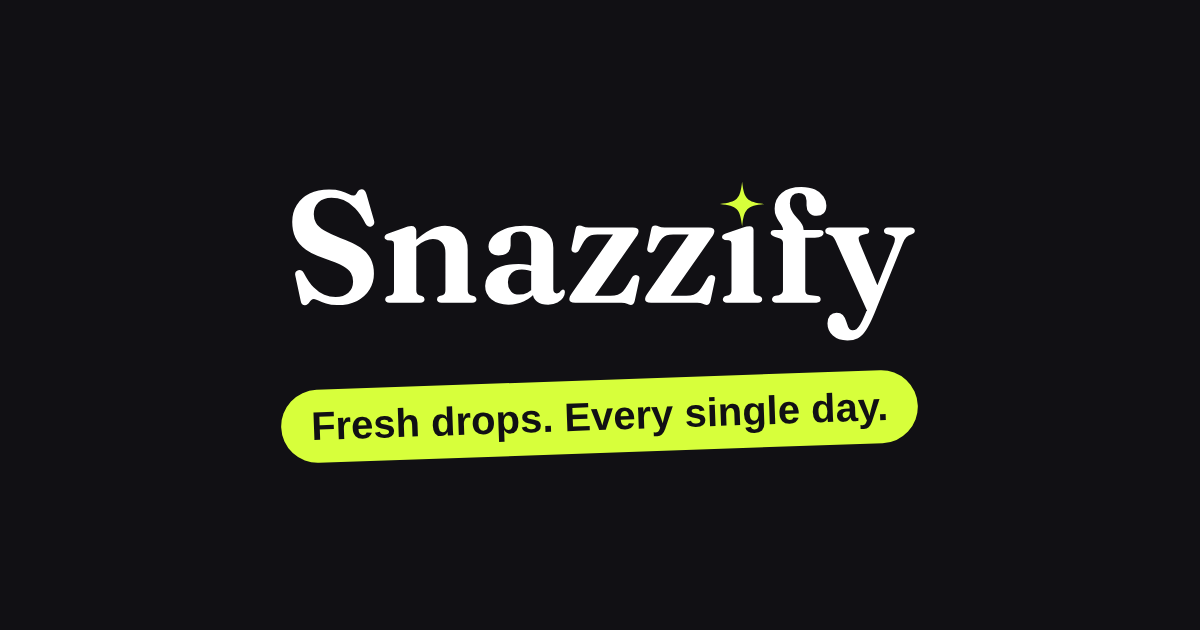
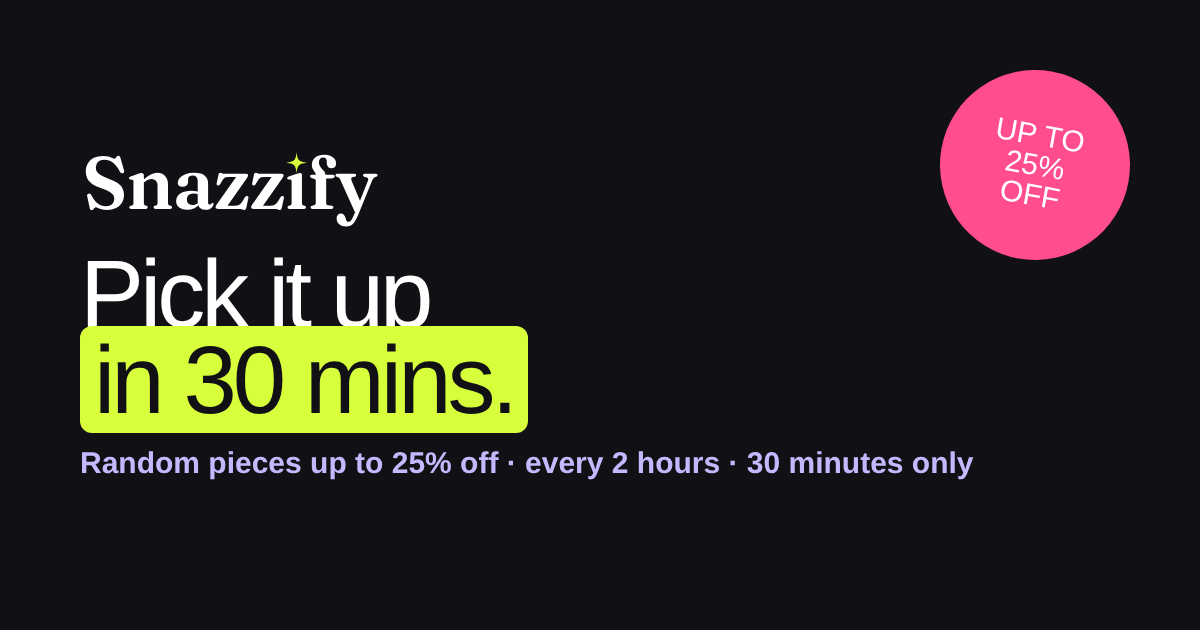
"Pick it up in 30 mins" flash drops
- Every N hours, random live products get a random 5-25% discount for 30 min (delivery never discounted)
- Picks made server-side from a secret seed; enforced at checkout with 5-min grace
- Live banner + countdown, home section (live grid / mystery teaser), card + product badges with slashed prices, FAQ, marquee, share image
- Admin: on/off switch, hours, gap, length, discount range, products per drop, live status

Claude-Session: https://claude.ai/code/session_01NkM9mXLAidQUMp4WEUHgsA

Changed region(s): [[0.0617, 0.2413, 0.8325, 0.754], [0.7708, 0.0905, 0.9558, 0.4222]]

diff --git a/public/index.html b/public/index.html
@@ -30,6 +30,30 @@ img{display:block;max-width:100%}
 .disp{font-family:var(--disp);letter-spacing:-.03em}
 
 /* marquee */
+.fbar{background:var(--lilac);color:var(--ink);text-align:center;font-size:13.5px;padding:9px 14px;font-weight:600}
+.fbar a{text-decoration:none;color:inherit}
+.fbar.live{background:var(--pink);color:#fff;animation:fpulse 1.6s ease-in-out infinite}
+@keyframes fpulse{50%{filter:brightness(1.12)}}
+.fbar .ft{font-variant-numeric:tabular-nums}
+@media(max-width:640px){.fbar .hs{display:none}.fbar{font-size:13px}}
+.tag.flash{background:var(--pink);color:#fff;font-variant-numeric:tabular-nums}
+.pr s,.bigpr s{font-size:.6em;color:var(--muted);margin-left:6px;font-weight:600}
+.flash{border-radius:28px;padding:30px;background:var(--lilac);position:relative;overflow:hidden}
+.flash.live{background:var(--ink);color:#fff}
+.flash .fh{display:flex;justify-content:space-between;align-items:flex-end;gap:20px;flex-wrap:wrap;margin-bottom:20px}
+.flash .fk{font-size:12px;font-weight:800;letter-spacing:.1em;color:var(--pink);margin-bottom:10px}
+.flash.live .fk{color:var(--lime)}
+.flash h2{font-family:var(--disp);font-weight:800;font-size:clamp(40px,7vw,80px);letter-spacing:-.05em;line-height:.88}
+.flash p{max-width:460px;margin-top:12px;font-size:15.5px;line-height:1.5}
+.fclock{background:var(--ink);color:#fff;border-radius:20px;padding:14px 20px;text-align:center}
+.flash.live .fclock{background:var(--pink)}
+.fclock small{font-size:11px;font-weight:800;letter-spacing:.12em;opacity:.7}
+.fclock b{display:block;font-family:var(--disp);font-size:44px;letter-spacing:-.03em;font-variant-numeric:tabular-nums}
+.flash.live .card{color:var(--ink)}
+.mys{display:grid;grid-template-columns:repeat(3,1fr);gap:12px}
+.mc{aspect-ratio:4/5;border-radius:18px;background:repeating-linear-gradient(45deg,#fff 0 14px,#f3efff 14px 28px);display:grid;place-items:center;align-content:center;gap:8px;border:2px dashed var(--ink)}
+.mc span{font-family:var(--disp);font-weight:800;font-size:64px;line-height:1}
+.mc em{font-style:normal;font-weight:800;font-size:13px;background:var(--pink);color:#fff;border-radius:999px;padding:4px 10px}
 .mq{background:var(--ink);color:#fff;overflow:hidden;white-space:nowrap;font-size:13px;font-weight:600}
 .mq .track{display:inline-flex;animation:mq 30s linear infinite;padding:9px 0}
 .mq span{padding:0 22px;display:inline-flex;align-items:center;gap:22px}
@@ -355,6 +379,7 @@ select{font:inherit;font-weight:600;font-size:14px;border:1.5px solid var(--line
 <body>
 
 <div class="mq"><div class="track" id="mq"></div></div>
+<div id="fbar" class="fbar" style="display:none"></div>
 
 <header>
   <div class="wrap hb">
@@ -408,7 +433,11 @@ const WHATSAPP_NUMBER = '';           // your number, digits only, e.g. '9198765
 const LIFE_DAYS = 7;                  // each product stays live this long
 const DROP_HOUR_IST = 11;             // daily drop time (11:00 AM IST)
 const IMG = p => '/img/' + p.img;     // product photos live in /img
-let PRODUCTS = [], SETTINGS = { seeBeforePay: false };                     // loaded from /products.json
+let PRODUCTS = [], SETTINGS = { seeBeforePay: false }, FLASH = { on:false }, CLOCK_SKEW = 0;
+const deal = p => FLASH.live && FLASH.deals && FLASH.deals[p.id];
+const ep = p => { const d = deal(p); return d ? d.price : p.price; };   // effective price right now
+const fmtT = ms => { ms = Math.max(0, ms); const h=Math.floor(ms/H), m=Math.floor(ms%H/6e4), s=Math.floor(ms%6e4/1e3); return (h?String(h).padStart(2,'0')+':':'')+String(m).padStart(2,'0')+':'+String(s).padStart(2,'0'); };
+const nowS = () => Date.now() + CLOCK_SKEW;                     // loaded from /products.json
 
 /* ================= STATE ================= */
 const H = 3600e3, LIFE = LIFE_DAYS*24*H, NOW = Date.now();
@@ -437,13 +466,14 @@ function addToBag(id,size,colour){ const p=byId(id); size = size || p.sizes?.[0]
 
 function card(p){
   const used = Math.min(1,(Date.now()-p.addedAt)/LIFE);
-  const tag = isNew(p) ? '<span class="tag new">Just dropped</span>' : ending(p) ? `<span class="tag end">${left(p)}</span>` : '';
+  const d = deal(p);
+  const tag = d ? `<span class="tag flash">⚡ ${d.pct}% OFF · <b class="ft" data-to="${FLASH.endsAt}">--:--</b></span>` : isNew(p) ? '<span class="tag new">Just dropped</span>' : ending(p) ? `<span class="tag end">${left(p)}</span>` : '';
   return `<article class="card">
     <div class="im" data-open="${p.id}"><img src="${IMG(p)}" alt="${p.name}">${tag}
       <div class="life" title="Time left in the shop"><i style="width:${(1-used)*100}%"></i></div></div>
     <button class="heart ${saved.includes(p.id)?'on':''}" data-id="${p.id}" aria-label="Save">${heartSvg}</button>
     <div class="mt"><div class="cat">${p.cat}</div><div class="nm" data-open="${p.id}">${p.name}</div>
-      <div class="prow"><div><div class="pr">${rupee(p.price)}</div><div class="left">${isNew(p)?'New today':left(p)}</div></div>
+      <div class="prow"><div><div class="pr">${rupee(ep(p))}${deal(p)?`<s>${rupee(p.price)}</s>`:''}</div><div class="left">${isNew(p)?'New today':left(p)}</div></div>
       <button class="add" data-add="${p.id}" aria-label="Add to bag">+</button></div></div>
   </article>`;
 }
@@ -482,7 +512,7 @@ home(){
       <h1>Fresh drops.<br><span class="hl">Every.</span> <span class="st">Single.</span><br>Day.</h1>
       <p class="lead">Handpicked sarees, sets, bags and festive finds land here every morning. Each piece stays for 7 days, then it's gone for good. Blink and you'll miss it.</p>
       <div class="ctas"><a class="btn dark" href="#shop">Shop today's drop →</a><a class="btn ghost" href="#about">How it works</a></div>
-      <div class="dropclock"><span class="lbl">Next drop in</span>
+      <div class="dropclock"><span class="lbl">${FLASH.on?(FLASH.live?'⚡ 30-min deals end in':'⚡ Next 30-min deals in'):'Next drop in'}</span>
         <div class="tbox"><b id="dH">00</b><small>hrs</small></div><div class="tbox"><b id="dM">00</b><small>min</small></div><div class="tbox"><b id="dS">00</b><small>sec</small></div></div>
     </div>
     ${hi.length>=3?`<div class="collage">
@@ -495,13 +525,14 @@ home(){
     </div>`:''}
   </section>
 
+  ${flashSection()}
   <section class="wrap sec">
     <div class="sh"><h2>Not your usual<br>online store<em>.</em></h2><p>Here's what makes shopping at Snazzify different.</p></div>
     <div class="bento">
       <div class="bx k big"><div><div class="ico">⏳</div></div>
         <div><h3>Every piece has<br>a 7-day life.</h3><p style="margin-top:10px">The bar on each photo is its clock. When it runs out, the piece leaves the shop and something new takes its place. No endless scrolling through old stock.</p>
         <div class="daydots">${['Mon','Tue','Wed','Thu','Fri','Sat','Sun'].map((d,i)=>`<span class="${i<5?'on':''}">${d}</span>`).join('')}</div></div></div>
-      <div class="bx l"><div class="ico">⚡</div><div><h3>Daily drops</h3><p>New pieces every day at ${DROP_HOUR_IST} AM.</p></div></div>
+      <div class="bx l"><div class="ico">⚡</div><div><h3>Pick it up in 30 mins</h3><p>Random pieces drop up to 25% off, every 2 hours, for 30 minutes.</p></div></div>
       <div class="bx v"><div class="ico">🔒</div><div><h3>Prepaid & secure</h3><p>UPI, cards & netbanking via Razorpay.</p></div></div>
       <div class="bx w"><div class="ico">🚚</div><div><h3>Free shipping</h3><p>On every order, anywhere in India.</p></div></div>
       <div class="bx p"><div class="ico">💬</div><div><h3>Drop alerts</h3><p>Get new pieces on WhatsApp first.</p></div></div>
@@ -542,6 +573,7 @@ home(){
   <section class="wrap sec" id="faq">
     <div class="sh"><h2>Questions<em>?</em></h2></div>
     <div class="faq">
+      <details><summary>What is "Pick it up in 30 mins"?</summary><p>Every 2 hours, a few random pieces in the shop drop by 5–25% for just 30 minutes. Nobody knows which pieces or how much until the drop starts, and the countdown at the top of the page shows when the next one begins. Only the price of the piece drops; delivery charges stay the same. If it's in your bag when the timer ends, you have a few extra minutes to check out.</p></details>
       <details><summary>Why do products disappear after 7 days?</summary><p>We work with makers who release new designs every day. Keeping each piece for one week keeps the shop fresh and the prices sharp. If you love something, don't wait.</p></details>
       <details><summary>Do you offer Cash on Delivery?</summary><p>No, all orders are prepaid. You can pay by UPI (GPay, PhonePe, Paytm), debit or credit card, or netbanking, all secured by Razorpay. That's what lets us keep prices low and shipping free.</p></details>
       <details><summary>How long does delivery take?</summary><p>Orders ship in 3–5 days after payment, and we send tracking on WhatsApp. Delivery usually takes 3–7 days depending on your pincode.</p></details>
@@ -554,7 +586,7 @@ home(){
 shop(){
   let list = live.filter(p => shopCat==='All' || (shopCat==='New today' ? isNew(p) : shopCat==='Saved' ? saved.includes(p.id) : p.cat===shopCat));
   if(query) list = list.filter(p => (p.name+' '+p.cat+' '+p.details.join(' ')).toLowerCase().includes(query));
-  list.sort(shopSort==='new' ? (a,b)=>b.addedAt-a.addedAt : shopSort==='end' ? (a,b)=>a.expiresAt-b.expiresAt : shopSort==='lo' ? (a,b)=>a.price-b.price : (a,b)=>b.price-a.price);
+  list.sort(shopSort==='new' ? (a,b)=>b.addedAt-a.addedAt : shopSort==='end' ? (a,b)=>a.expiresAt-b.expiresAt : shopSort==='lo' ? (a,b)=>ep(a)-ep(b) : (a,b)=>ep(b)-ep(a));
   const n = c => c==='All'?live.length : c==='New today'?live.filter(isNew).length : live.filter(p=>p.cat===c).length;
   return `<section class="wrap sec" style="padding-top:36px">
     <div class="sh"><h2>${query?`Results for “${query}”`:shopCat==='All'?'Everything live<em>.</em>':shopCat+'<em>.</em>'}</h2><p>${list.length} piece${list.length===1?'':'s'} · each one gone in 7 days</p></div>
@@ -657,7 +689,7 @@ function route(){
     $('#sort').onchange=e=>{shopSort=e.target.value;route();};
   }
   if(name==='home'){
-    clearInterval(tick); const run=()=>{ const ms=nextDrop()-Date.now(); if(!$('#dH')) return clearInterval(tick);
+    clearInterval(tick); const run=()=>{ const ms=(FLASH.on?(FLASH.live?FLASH.endsAt:FLASH.nextAt):nextDrop())-nowS(); if(!$('#dH')) return clearInterval(tick);
       $('#dH').textContent=String(Math.floor(ms/H)).padStart(2,'0'); $('#dM').textContent=String(Math.floor(ms%H/6e4)).padStart(2,'0'); $('#dS').textContent=String(Math.floor(ms%6e4/1e3)).padStart(2,'0'); };
     run(); tick=setInterval(run,1000);
     $('#alertF').onsubmit=e=>{ e.preventDefault(); const n=$('#alertN').value.trim();
@@ -689,12 +721,13 @@ function openProduct(id){
         <button class="x" id="x" aria-label="Close">×</button>
         <div class="code">${p.cat.toUpperCase()} · ${p.code}</div>
         <h3>${p.name}</h3>
-        <div class="bigpr">${rupee(p.price)}<span class="free">Free shipping</span></div>
+        <div class="bigpr">${rupee(ep(p))}${deal(p)?`<s>${rupee(p.price)}</s><span class="free" style="background:var(--pink);color:#fff">⚡ ${deal(p).pct}% OFF</span>`:''}<span class="free">Free shipping</span></div>
+        ${deal(p)?`<div class="count" style="background:var(--pink)">⚡ Pick it up in 30 mins: this price ends in <b class="ft" data-to="${FLASH.endsAt}">--:--</b></div>`:''}
         <div class="count">⏳ Leaves the shop in <b id="cd"></b></div>
         ${p.sizes?`<div><div class="lbl">Size</div><div class="opts">${p.sizes.map(s=>`<button class="opt ${s===size?'on':''}" data-s="${s}">${s}</button>`).join('')}</div></div>`:''}
         ${p.colours?`<div><div class="lbl">Colour · ${colour}</div><div class="opts">${p.colours.map(s=>`<button class="opt ${s===colour?'on':''}" data-k="${s}">${s}</button>`).join('')}</div></div>`:''}
         <ul class="desc">${p.details.map(d=>`<li>${d}</li>`).join('')}</ul>
-        <div class="brow"><button class="buy" id="bNow">Buy now · ${rupee(p.price)}</button><button class="sq ${saved.includes(p.id)?'on':''}" data-id="${p.id}" id="sv" aria-label="Save">${heartSvg}</button></div>
+        <div class="brow"><button class="buy" id="bNow">Buy now · ${rupee(ep(p))}</button><button class="sq ${saved.includes(p.id)?'on':''}" data-id="${p.id}" id="sv" aria-label="Save">${heartSvg}</button></div>
         <button class="buy alt" id="bAdd">Add to bag</button>
         <div class="trust"><span>🔒 Razorpay secure</span><span>UPI</span><span>Cards</span><span>Netbanking</span><span>No COD</span></div>
         ${SETTINGS.seeBeforePay?'<div class="note" style="color:var(--ink);font-weight:600">✨ Not sure? Choose <b>See it before you pay</b> at checkout: we send you a video first.</div>':''}
@@ -718,13 +751,13 @@ function openProduct(id){
 /* ================= BAG / SAVED DRAWER ================= */
 function openBag(tab='bag', toCheckout=false){
   const d = $('#drawer');
-  const total = () => bag.reduce((a,i)=>a+byId(i.id).price*i.qty,0);
+  const total = () => bag.reduce((a,i)=>a+ep(byId(i.id))*i.qty,0);
   const draw = () => {
     const items = tab==='bag'
       ? (bag.length ? bag.map(i=>{const p=byId(i.id);return `<div class="li"><img src="${IMG(p)}" alt=""><div><b>${p.name}</b><small>${[i.size,i.colour].filter(Boolean).join(' · ')||p.code} · ${left(p)}</small>
-          <div class="qty"><button data-q="${i.k}" data-d="-1">−</button>${i.qty}<button data-q="${i.k}" data-d="1">+</button> <button class="rm" data-rm="${i.k}">Remove</button></div></div><div class="pr">${rupee(p.price*i.qty)}</div></div>`}).join('')
+          <div class="qty"><button data-q="${i.k}" data-d="-1">−</button>${i.qty}<button data-q="${i.k}" data-d="1">+</button> <button class="rm" data-rm="${i.k}">Remove</button></div></div><div class="pr">${rupee(ep(p)*i.qty)}</div></div>`}).join('')
         : '<div class="empty">Your bag is empty.<br><br><a class="btn dark" href="#home" id="goShop">Catch today\'s drop →</a></div>')
-      : (saved.length ? saved.map(id=>{const p=byId(id);return `<div class="li"><img src="${IMG(p)}" alt=""><div><b>${p.name}</b><small>${left(p)}</small><div class="qty"><button class="rm" data-mv="${id}">Move to bag</button> <button class="rm" data-un="${id}">Remove</button></div></div><div class="pr">${rupee(p.price)}</div></div>`}).join('')
+      : (saved.length ? saved.map(id=>{const p=byId(id);return `<div class="li"><img src="${IMG(p)}" alt=""><div><b>${p.name}</b><small>${left(p)}</small><div class="qty"><button class="rm" data-mv="${id}">Move to bag</button> <button class="rm" data-un="${id}">Remove</button></div></div><div class="pr">${rupee(ep(p))}</div></div>`}).join('')
         : '<div class="empty">Tap ♥ on anything you love. It stays here until it leaves the shop.</div>');
     d.innerHTML = `<div class="dh"><div class="tabs"><button class="tab ${tab==='bag'?'on':''}" data-t="bag">Bag (${bag.reduce((a,i)=>a+i.qty,0)})</button><button class="tab ${tab==='saved'?'on':''}" data-t="saved">Saved (${saved.length})</button></div><button class="dx" id="dx" aria-label="Close">×</button></div>
       <div class="db">${items}</div>
@@ -748,7 +781,7 @@ function openBag(tab='bag', toCheckout=false){
         <label>Address<textarea name="addr" required rows="2" autocomplete="street-address" placeholder="House no., street, area, landmark"></textarea></label>
         <div class="f3"><label>Pincode<input name="pin" required inputmode="numeric" maxlength="6" pattern="[1-9][0-9]{5}" autocomplete="postal-code"></label>
           <label>City<input name="city" required autocomplete="address-level2"></label><label>State<input name="state" required autocomplete="address-level1"></label></div>
-        <div class="tot" style="border-top:1px dashed var(--line);padding-top:12px">${bag.map(i=>{const p=byId(i.id);return `<span>${p.name}${i.qty>1?' × '+i.qty:''}</span><span>${rupee(p.price*i.qty)}</span>`}).join('')}<span>Shipping</span><span>Free</span><b>To pay</b><b>${rupee(total())}</b></div>
+        <div class="tot" style="border-top:1px dashed var(--line);padding-top:12px">${bag.map(i=>{const p=byId(i.id);return `<span>${p.name}${i.qty>1?' × '+i.qty:''}</span><span>${rupee(ep(p)*i.qty)}</span>`}).join('')}<span>Shipping</span><span>Free</span><b>To pay</b><b>${rupee(total())}</b></div>
         ${SETTINGS.seeBeforePay?`<div class="pm">
           <label class="pmo on"><input type="radio" name="pm" value="pay" checked><div><b>Pay now</b><span>Fastest dispatch. UPI, cards & netbanking.</span></div></label>
           <label class="pmo"><input type="radio" name="pm" value="see"><div><b>See it before you pay ✨</b><span>Book free. We WhatsApp you a video of your exact piece, and you pay only if you love it.</span></div></label></div>`:''}
@@ -836,15 +869,53 @@ $('#q').oninput = e => { query = e.target.value.trim().toLowerCase(); shopCat='A
 $$('footer [data-cat]').forEach(a=>a.onclick=()=>{shopCat=a.dataset.cat;query='';});
 $$('footer [data-faq]').forEach(a=>a.onclick=e=>{ if(location.hash==='#home'||!location.hash){ e.preventDefault(); $('#faq').scrollIntoView({behavior:'smooth'}); } else { setTimeout(()=>$('#faq')?.scrollIntoView(),50); } });
 $$('.waL').forEach(a=>a.href=wa('Hi Snazzify!'));
+/* ================= PICK IT UP IN 30 MINS ================= */
+let flashTimer;
+async function loadFlash(){
+  try { FLASH = await fetch('/api/flash', {cache:'no-store'}).then(r => r.json()); CLOCK_SKEW = (FLASH.now || Date.now()) - Date.now(); } catch(e) { FLASH = { on:false }; }
+  clearTimeout(flashTimer);
+  const at = FLASH.live ? FLASH.endsAt : FLASH.nextAt;
+  if (FLASH.on && at) flashTimer = setTimeout(async () => { await loadFlash(); routing.keep = true; route(); counts(); if (FLASH.live) toast('<i>⚡</i> Pick it up in 30 mins is LIVE!'); }, Math.max(1000, at - nowS() + 1500));
+  drawFlashBar();
+}
+function drawFlashBar(){
+  const el = $('#fbar'); if (!el) return;
+  if (!FLASH.on) { el.style.display='none'; return; }
+  el.style.display='';
+  el.className = 'fbar' + (FLASH.live ? ' live' : '');
+  const n = FLASH.live ? Object.keys(FLASH.deals||{}).length : 0;
+  el.innerHTML = FLASH.live
+    ? `<a href="#home" data-flash>⚡ <b>PICK IT UP IN 30 MINS</b> <span class="hs">· ${n} piece${n===1?'':'s'} up to ${Math.max(...Object.values(FLASH.deals).map(d=>d.pct))}% off</span> · ends in <b class="ft" data-to="${FLASH.endsAt}">--:--</b> →</a>`
+    : `<span>⚡ Next <b>Pick it up in 30 mins</b> drop in <b class="ft" data-to="${FLASH.nextAt}">--:--</b><span class="hs"> · up to ${FLASH.maxPct}% off for 30 mins only</span></span>`;
+  const a = el.querySelector('[data-flash]'); if (a) a.onclick = e => { if (location.hash==='#home'||!location.hash){ e.preventDefault(); $('#flash')?.scrollIntoView({behavior:'smooth'}); } else setTimeout(()=>$('#flash')?.scrollIntoView({behavior:'smooth'}),80); };
+}
+setInterval(() => { $$('.ft').forEach(e => e.textContent = fmtT(+e.dataset.to - nowS())); }, 1000);
+function flashSection(){
+  if (!FLASH.on) return '';
+  const deals = FLASH.live ? live.filter(p => deal(p)) : [];
+  if (FLASH.live && deals.length) return `<section class="wrap sec" id="flash"><div class="flash live">
+    <div class="fh"><div><div class="fk">⚡ LIVE NOW</div><h2>Pick it up<br>in 30 mins.</h2><p>Grab these prices before the clock hits zero. Delivery charges stay the same, only the price drops.</p></div>
+    <div class="fclock"><small>ENDS IN</small><b class="ft" data-to="${FLASH.endsAt}">--:--</b></div></div>
+    <div class="grid">${deals.map(card).join('')}</div></div></section>`;
+  return `<section class="wrap sec" id="flash"><div class="flash">
+    <div class="fh"><div><div class="fk">⚡ NEW: A WAY TO SHOP NOBODY ELSE HAS</div><h2>Pick it up<br>in 30 mins.</h2>
+      <p>Every ${FLASH.every/60} hours, random pieces drop by <b>${FLASH.minPct}–${FLASH.maxPct}%</b>, for just 30 minutes. Nobody knows which ones until the clock starts. Be here, be quick.</p></div>
+    <div class="fclock"><small>NEXT DROP IN</small><b class="ft" data-to="${FLASH.nextAt}">--:--</b></div></div>
+    <div class="mys">${[1,2,3].map(i=>`<div class="mc"><span>?</span><em>up to ${FLASH.maxPct}% off</em></div>`).join('')}</div>
+    <div class="ctas" style="margin-top:18px"><a class="btn lime" href="${wa('Hi Snazzify! ⚡ Add me to Pick it up in 30 mins alerts')}" target="_blank" rel="noopener">🔔 Alert me on WhatsApp</a></div>
+  </div></section>`;
+}
+
 (async function init(){
   try { PRODUCTS = await fetch('/api/products', {cache:'no-store'}).then(r => r.json()); } catch(e) { PRODUCTS = []; }
   try { SETTINGS = await fetch('/api/settings', {cache:'no-store'}).then(r => r.json()); } catch(e) {}
+  await loadFlash();
   PRODUCTS.forEach(p => { p.addedAt = Date.parse(p.addedAt); p.expiresAt = p.addedAt + LIFE; });
   const showHidden = /[?&]test\b/.test(location.search);
   live = PRODUCTS.filter(p => p.expiresAt > NOW && p.addedAt <= NOW && (!p.hidden || showHidden));
   saved = store.get('saved', []).filter(byId);
   bag = store.get('bag', []).filter(i => byId(i.id));
-  $('#mq').innerHTML = (`<span>${live.length?live.filter(isNew).length+' new pieces dropped today':'New drops landing soon'}</span><span>Every piece live for 7 days only</span><span>Free shipping across India</span><span>Prepaid via UPI, cards & netbanking</span><span>New drop daily at ${DROP_HOUR_IST} AM</span>`).repeat(4);
+  $('#mq').innerHTML = (`<span>${live.length?live.filter(isNew).length+' new pieces dropped today':'New drops landing soon'}</span><span>Every piece live for 7 days only</span><span>⚡ Pick it up in 30 mins: up to 25% off every 2 hours</span><span>Free shipping across India</span><span>Prepaid via UPI, cards & netbanking</span><span>New drop daily at ${DROP_HOUR_IST} AM</span>`).repeat(4);
   counts(); route();
 })();
 </script>

diff --git a/lib/util.js b/lib/util.js
@@ -94,10 +94,11 @@ export async function markPaid(env, rzpOrderId, paymentId, via) {
 }
 
 // ---------- settings (admin switches) ----------
-export const DEFAULT_SETTINGS = { seeBeforePay: false };
+export const DEFAULT_FLASH = { on: false, startHour: 10, endHour: 22, every: 120, minutes: 30, minPct: 5, maxPct: 25, count: 3 };
+export const DEFAULT_SETTINGS = { seeBeforePay: false, flash: DEFAULT_FLASH };
 export async function getSettings(env) {
   const s = env.STORE ? await env.STORE.get('settings', 'json') : null;
-  return { ...DEFAULT_SETTINGS, ...(s || {}) };
+  return { ...DEFAULT_SETTINGS, ...(s || {}), flash: { ...DEFAULT_FLASH, ...((s && s.flash) || {}) } };
 }
 
 // ---------- bag pricing (shared by pay-now checkout and see-before-you-pay booking) ----------
@@ -112,6 +113,7 @@ export function checkCustomer(customer = {}) {
 export async function priceBag(env, items) {
   const catalogue = await getCatalogue(env);
   const now = Date.now();
+  const flash = await flashDealsForCheckout(env, catalogue, now);
   if (!Array.isArray(items) || !items.length || items.length > 20) return { error: 'Your bag is empty.', status: 400 };
   let amount = 0; const lines = []; const orderItems = [];
   for (const it of items) {
@@ -123,9 +125,11 @@ export async function priceBag(env, items) {
     if (it.size && p.sizes && !p.sizes.includes(it.size)) return { error: 'Please choose a valid size.', status: 400 };
     if (it.colour && p.colours && !p.colours.includes(it.colour)) return { error: 'Please choose a valid colour.', status: 400 };
     const size = it.size ? clean(it.size, 20) : '', colour = it.colour ? clean(it.colour, 20) : '';
-    amount += p.price * qty;
-    lines.push(`${p.code}${size ? ' / ' + size : ''}${colour ? ' / ' + colour : ''} x${qty} @${p.price}`);
-    orderItems.push({ id: p.id, code: p.code, name: p.name, img: p.img, size, colour, qty, price: p.price,
+    const deal = flash[p.id];
+    const price = deal ? deal.price : p.price;
+    amount += price * qty;
+    lines.push(`${p.code}${size ? ' / ' + size : ''}${colour ? ' / ' + colour : ''} x${qty} @${price}${deal ? ' (' + deal.pct + '% flash)' : ''}`);
+    orderItems.push({ id: p.id, code: p.code, name: p.name, img: p.img, size, colour, qty, price, listPrice: p.price, flashPct: deal ? deal.pct : undefined,
       cost: p.cost ?? null, ship: p.ship ?? null, sellerName: p.sellerName || '', sellerPhone: p.sellerPhone || '', sellerUpi: p.sellerUpi || '' });
   }
   return { amount, lines, orderItems };
@@ -146,4 +150,66 @@ export async function razorpayOrder(env, { amount, ref, c, lines }) {
     const order = await rz.json();
     return rz.ok ? { order } : { error: 'Could not start payment. Please try again.' };
   } catch { return { error: 'Could not reach the payment gateway. Please try again.' }; }
+}
+
+// ---------- "Pick it up in 30 mins" flash deals ----------
+// Every `every` minutes between startHour and endHour (IST), `count` live products get a random
+// minPct–maxPct discount (steps of 5) for `minutes` minutes. The discount applies to the product
+// part of the price only, so the delivery charge is never discounted. Picks are made on the server
+// from a secret seed, so nobody can predict the next drop.
+const IST_MS = 5.5 * 3600e3;
+export function flashWindows(f, now = Date.now()) {
+  const ist = new Date(now + IST_MS);
+  const day0 = Date.UTC(ist.getUTCFullYear(), ist.getUTCMonth(), ist.getUTCDate()) - IST_MS; // IST midnight in UTC ms
+  const starts = d => { const out = []; for (let m = f.startHour * 60; m < f.endHour * 60; m += f.every) out.push(d + m * 6e4); return out; };
+  const today = starts(day0), tomorrow = starts(day0 + 864e5), yesterday = starts(day0 - 864e5);
+  const all = [...yesterday, ...today, ...tomorrow];
+  const dur = f.minutes * 6e4;
+  const current = all.find(s => s <= now && now < s + dur) ?? null;
+  const next = all.find(s => s > now) ?? null;
+  const previous = [...all].reverse().find(s => s + dur <= now) ?? null;
+  return { current, next, previous, dur };
+}
+function rng(seedHex) { // mulberry32, seeded from the secret hash
+  let a = parseInt(seedHex.slice(0, 8), 16) >>> 0;
+  return () => { a = (a + 0x6D2B79F5) >>> 0; let t = a; t = Math.imul(t ^ (t >>> 15), t | 1); t ^= t + Math.imul(t ^ (t >>> 7), t | 61); return ((t ^ (t >>> 14)) >>> 0) / 4294967296; };
+}
+export async function flashPicks(env, catalogue, start, f) {
+  const seed = await hmacHex(env.ADMIN_PASSWORD || env.RAZORPAY_KEY_SECRET || 'snazzify', 'flash:' + start);
+  const r = rng(seed);
+  const live = catalogue.filter(p => !p.hidden && p.price > 9 && Date.parse(p.addedAt) <= start && Date.parse(p.addedAt) + LIFE_MS > start + f.minutes * 6e4);
+  const pool = live.filter(p => p.cost != null).length >= f.count ? live.filter(p => p.cost != null) : live;
+  const shuffled = pool.map(p => [r(), p]).sort((a, b) => a[0] - b[0]).map(x => x[1]);
+  const steps = []; for (let v = Math.ceil(f.minPct / 5) * 5; v <= f.maxPct; v += 5) steps.push(v);
+  if (!steps.length) steps.push(f.minPct);
+  const deals = {};
+  for (const p of shuffled.slice(0, f.count)) {
+    const pct = steps[Math.floor(r() * steps.length) % steps.length];
+    const delivery = Number(p.ship || 0);
+    let price = p.price - Math.round((p.price - delivery) * pct / 100);
+    price = Math.max(1, Math.floor((price + 1) / 10) * 10 - 1); // end in 9
+    deals[p.id] = { pct, price };
+  }
+  return deals;
+}
+export async function getFlash(env, catalogue, now = Date.now()) {
+  const s = await getSettings(env);
+  const f = s.flash;
+  if (!f.on) return { on: false };
+  const w = flashWindows(f, now);
+  const out = { on: true, every: f.every, minutes: f.minutes, minPct: f.minPct, maxPct: f.maxPct, nextAt: w.next, live: false };
+  if (w.current != null) {
+    out.live = true; out.startedAt = w.current; out.endsAt = w.current + w.dur;
+    out.deals = await flashPicks(env, catalogue || await getCatalogue(env), w.current, f);
+  }
+  return out;
+}
+/** Deals valid for checkout now, with a 5-minute grace after a drop ends (so a bag filled at 29:59 still checks out). */
+export async function flashDealsForCheckout(env, catalogue, now = Date.now()) {
+  if (!env.STORE) return {};
+  const f = (await getSettings(env)).flash;
+  if (!f.on) return {};
+  const w = flashWindows(f, now);
+  const start = w.current ?? (w.previous != null && now < w.previous + w.dur + 5 * 6e4 ? w.previous : null);
+  return start == null ? {} : flashPicks(env, catalogue, start, f);
 }

diff --git a/public/admin/index.html b/public/admin/index.html
@@ -218,11 +218,32 @@ function today(){
       <div class="hint" style="margin-top:4px">Customers can book without paying. You send them a video of the piece on WhatsApp with a pay link, and they pay only if they love it. You pay the seller only after the customer pays.</div></div>
       <button class="tg ${SETTINGS.seeBeforePay?'on':''}" id="sbp" aria-label="Turn See it before you pay on or off"></button></div>
       <div class="hint" id="sbpS" style="font-weight:800;color:${SETTINGS.seeBeforePay?'#1f7a4d':'var(--muted)'}">${SETTINGS.seeBeforePay?'ON: customers see this option at checkout':'OFF: customers can only pay now'}</div></div>
+    <div class="card" style="margin-top:10px"><div class="sw"><div><b style="font-size:16px">⚡ Pick it up in 30 mins</b>
+      <div class="hint" style="margin-top:4px">Every few hours, random products drop by a random discount for a short time. The discount applies to the product only, never to delivery. The server picks products and prices, so nobody can predict them.</div></div>
+      <button class="tg ${SETTINGS.flash?.on?'on':''}" id="fl" aria-label="Turn flash drops on or off"></button></div>
+      <div class="hint" id="flS" style="font-weight:800;color:${SETTINGS.flash?.on?'#1f7a4d':'var(--muted)'}">${SETTINGS.flash?.on?'ON':'OFF'}</div>
+      <form id="flf" style="display:grid;gap:8px">
+        <div class="three"><label>From (hour)<input name="startHour" type="number" min="0" max="23" value="${SETTINGS.flash?.startHour??10}"></label>
+          <label>Until (hour)<input name="endHour" type="number" min="1" max="24" value="${SETTINGS.flash?.endHour??22}"></label>
+          <label>Every (min)<input name="every" type="number" min="30" step="15" value="${SETTINGS.flash?.every??120}"></label></div>
+        <div class="three"><label>Lasts (min)<input name="minutes" type="number" min="5" value="${SETTINGS.flash?.minutes??30}"></label>
+          <label>Min % off<input name="minPct" type="number" min="1" max="60" value="${SETTINGS.flash?.minPct??5}"></label>
+          <label>Max % off<input name="maxPct" type="number" min="1" max="60" value="${SETTINGS.flash?.maxPct??25}"></label></div>
+        <label>Products per drop<input name="count" type="number" min="1" max="20" value="${SETTINGS.flash?.count??3}"></label>
+        <button class="btn ghost sm">Save drop settings</button></form></div>
     <h2>Latest orders</h2>
     <div class="list">${ORDERS.filter(o=>o.status!=='created').slice(0,5).map(orderRow).join('') || '<div class="empty">No paid orders yet. They\'ll appear here the moment a customer pays.</div>'}</div>`;
   $$('[data-f]').forEach(b => b.onclick = () => { oFilter = b.dataset.f; tab='orders'; shell(); });
   $$('[data-p]').forEach(b => b.onclick = () => { pFilter = b.dataset.p; tab='products'; shell(); });
   $('#addP').onclick = () => productForm();
+  const fstat = async () => { try { const f = await fetch('/api/flash',{cache:'no-store'}).then(r=>r.json()); const el=$('#flS'); if(!el) return;
+      el.textContent = !f.on ? 'OFF: no flash drops' : f.live ? `🔴 LIVE NOW: ${Object.keys(f.deals||{}).length} products, ends ${new Date(f.endsAt).toLocaleTimeString('en-IN',{hour:'numeric',minute:'2-digit'})}` : `ON: next drop at ${new Date(f.nextAt).toLocaleString('en-IN',{weekday:'short',hour:'numeric',minute:'2-digit'})}`; } catch {} };
+  fstat();
+  $('#fl').onclick = async () => { const on = !SETTINGS.flash?.on;
+    if (!confirm(on ? 'Turn ON "Pick it up in 30 mins"? Random discounts will start at the next drop time.' : 'Turn OFF "Pick it up in 30 mins"? Any live drop ends immediately.')) return;
+    try { SETTINGS = (await api('settings', {method:'POST', body: JSON.stringify({flash:{on}})})).settings; today(); toast(on ? 'Flash drops ON ⚡' : 'Flash drops OFF'); } catch(e) { toast(e.message); } };
+  $('#flf').onsubmit = async e => { e.preventDefault(); const d = Object.fromEntries(new FormData(e.target));
+    try { SETTINGS = (await api('settings', {method:'POST', body: JSON.stringify({flash:d})})).settings; toast('Saved'); fstat(); } catch(err) { toast(err.message); } };
   $('#sbp').onclick = async () => { const on = !SETTINGS.seeBeforePay;
     if (!confirm(on ? 'Turn ON "See it before you pay"? Customers will be able to book without paying.' : 'Turn OFF "See it before you pay"? Customers will have to pay at checkout.')) return;
     try { SETTINGS = (await api('settings', {method:'POST', body: JSON.stringify({seeBeforePay: on})})).settings; today(); toast(on ? 'Turned ON' : 'Turned OFF'); } catch(e) { toast(e.message); } };
@@ -287,7 +308,7 @@ function openOrder(ref){
     const upi = s.sellerUpi && !isNaN(owed) ? `upi://pay?pa=${encodeURIComponent(s.sellerUpi)}&pn=${encodeURIComponent(name)}&am=${owed}&cu=INR&tn=${encodeURIComponent('Snazzify ' + o.ref)}` : '';
     return `<div class="card"><h4>Seller · ${esc(name)}</h4>
       ${items.map(i=>`<div class="item"><img src="${img(i.img)}" alt=""><div><b>${esc(i.name)}</b><small>${i.code}${i.size?' · '+esc(i.size):''}${i.colour?' · '+esc(i.colour):''} · qty ${i.qty}</small>
-        <br><small>Seller price ${i.cost!=null?rupee((i.cost+(i.ship||0))):'not set'}</small></div><div class="amt" style="font-size:15px">${rupee(i.price*i.qty)}</div></div>`).join('')}
+        <br><small>Seller price ${i.cost!=null?rupee((i.cost+(i.ship||0))):'not set'}${i.flashPct?' · ⚡ '+i.flashPct+'% flash price':''}</small></div><div class="amt" style="font-size:15px">${rupee(i.price*i.qty)}</div></div>`).join('')}
       ${s.sellerPhone ? `<a class="btn wa" href="https://wa.me/${s.sellerPhone.length===10?'91'+s.sellerPhone:s.sellerPhone}?text=${encodeURIComponent(msg)}" target="_blank" rel="noopener" data-sent>📦 Send order to seller on WhatsApp</a>`
         : `<button class="btn ghost" data-copy="${esc(msg)}">📋 Copy order message for seller</button><div class="hint">Add the seller's WhatsApp number to this product to send in one tap.</div>`}
       ${upi ? `<a class="btn ghost" href="${upi}">💸 Pay ${esc(name)} ${rupee(owed)} by UPI</a><div class="hint">Opens your UPI app with the amount filled in. You enter your PIN.</div>`

diff --git a/functions/api/admin/settings.js b/functions/api/admin/settings.js
@@ -5,6 +5,21 @@ export async function onRequestPost({ request, env }) {
   let b; try { b = await request.json(); } catch { return json({ error: 'Invalid request' }, 400); }
   const s = await getSettings(env);
   if (typeof b.seeBeforePay === 'boolean') s.seeBeforePay = b.seeBeforePay;
+  if (b.flash && typeof b.flash === 'object') {
+    const f = { ...s.flash }, n = (v, lo, hi, d) => { v = Math.round(Number(v)); return Number.isFinite(v) ? Math.min(hi, Math.max(lo, v)) : d; };
+    if (typeof b.flash.on === 'boolean') f.on = b.flash.on;
+    if ('startHour' in b.flash) f.startHour = n(b.flash.startHour, 0, 23, f.startHour);
+    if ('endHour' in b.flash) f.endHour = n(b.flash.endHour, 1, 24, f.endHour);
+    if ('every' in b.flash) f.every = n(b.flash.every, 30, 720, f.every);
+    if ('minutes' in b.flash) f.minutes = n(b.flash.minutes, 5, 120, f.minutes);
+    if ('minPct' in b.flash) f.minPct = n(b.flash.minPct, 1, 60, f.minPct);
+    if ('maxPct' in b.flash) f.maxPct = n(b.flash.maxPct, 1, 60, f.maxPct);
+    if ('count' in b.flash) f.count = n(b.flash.count, 1, 20, f.count);
+    if (f.endHour <= f.startHour) return json({ error: 'End hour must be after start hour.' }, 400);
+    if (f.maxPct < f.minPct) return json({ error: 'Max discount must be at least the min discount.' }, 400);
+    if (f.minutes > f.every) return json({ error: 'Sale length can\'t be longer than the gap between drops.' }, 400);
+    s.flash = f;
+  }
   await env.STORE.put('settings', JSON.stringify(s));
   return json({ ok: true, settings: s });
 }

diff --git a/functions/api/flash.js b/functions/api/flash.js
@@ -1,0 +1,3 @@
+// GET /api/flash — "Pick it up in 30 mins": is a drop live, which products, prices, and when the next one starts.
+import { json, getFlash } from '../../lib/util.js';
+export const onRequestGet = async ({ env }) => json({ ...(await getFlash(env)), now: Date.now() });
